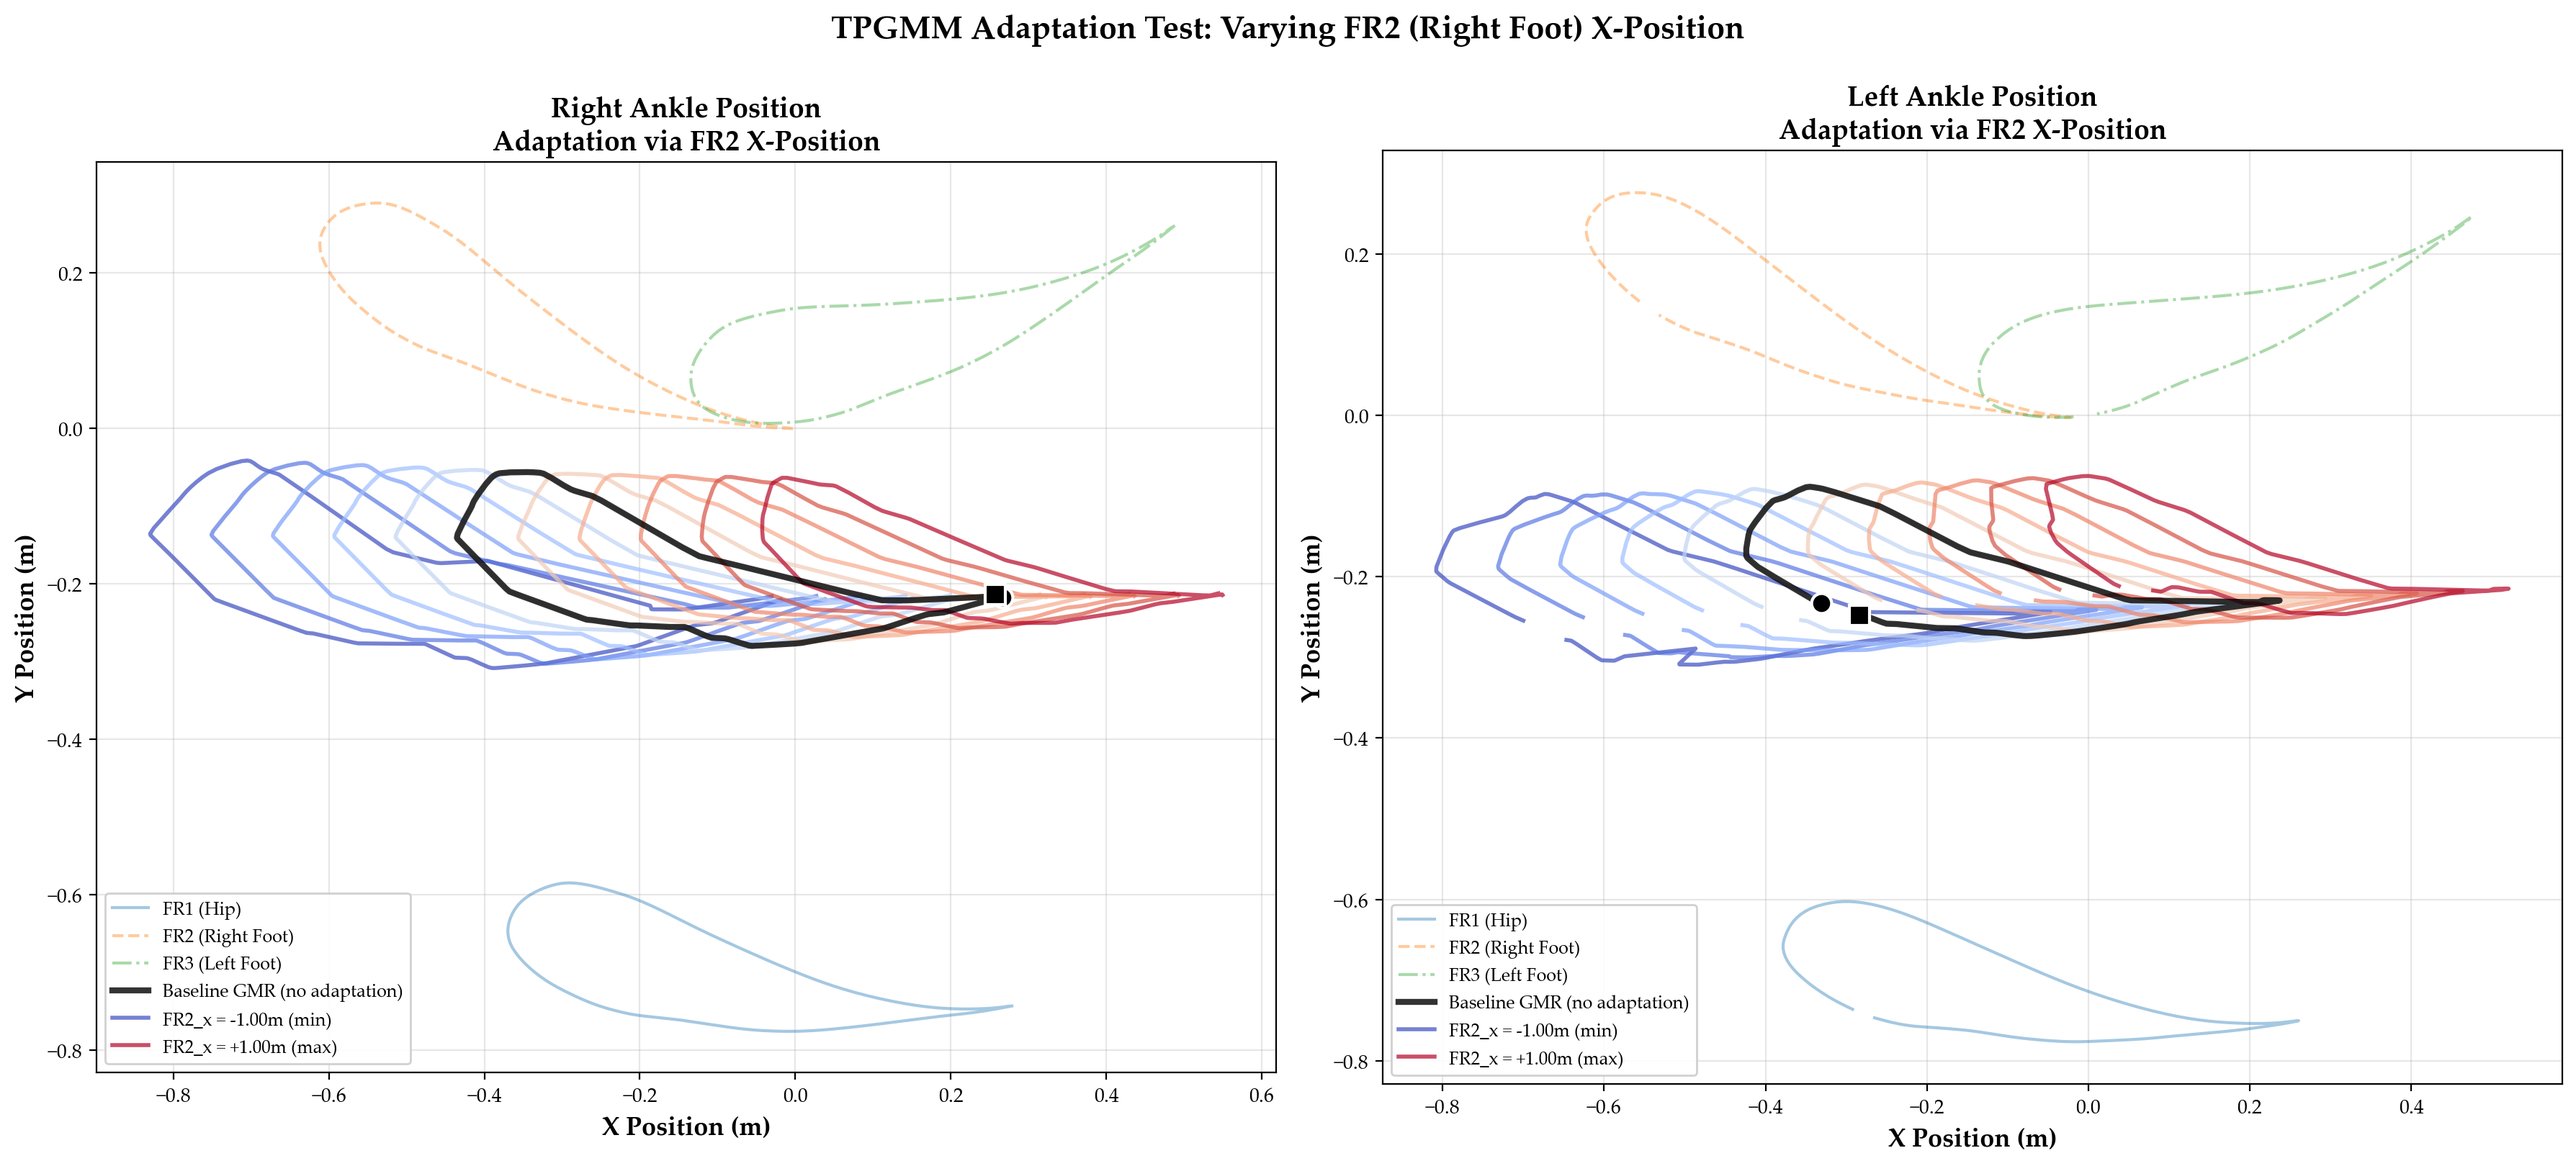
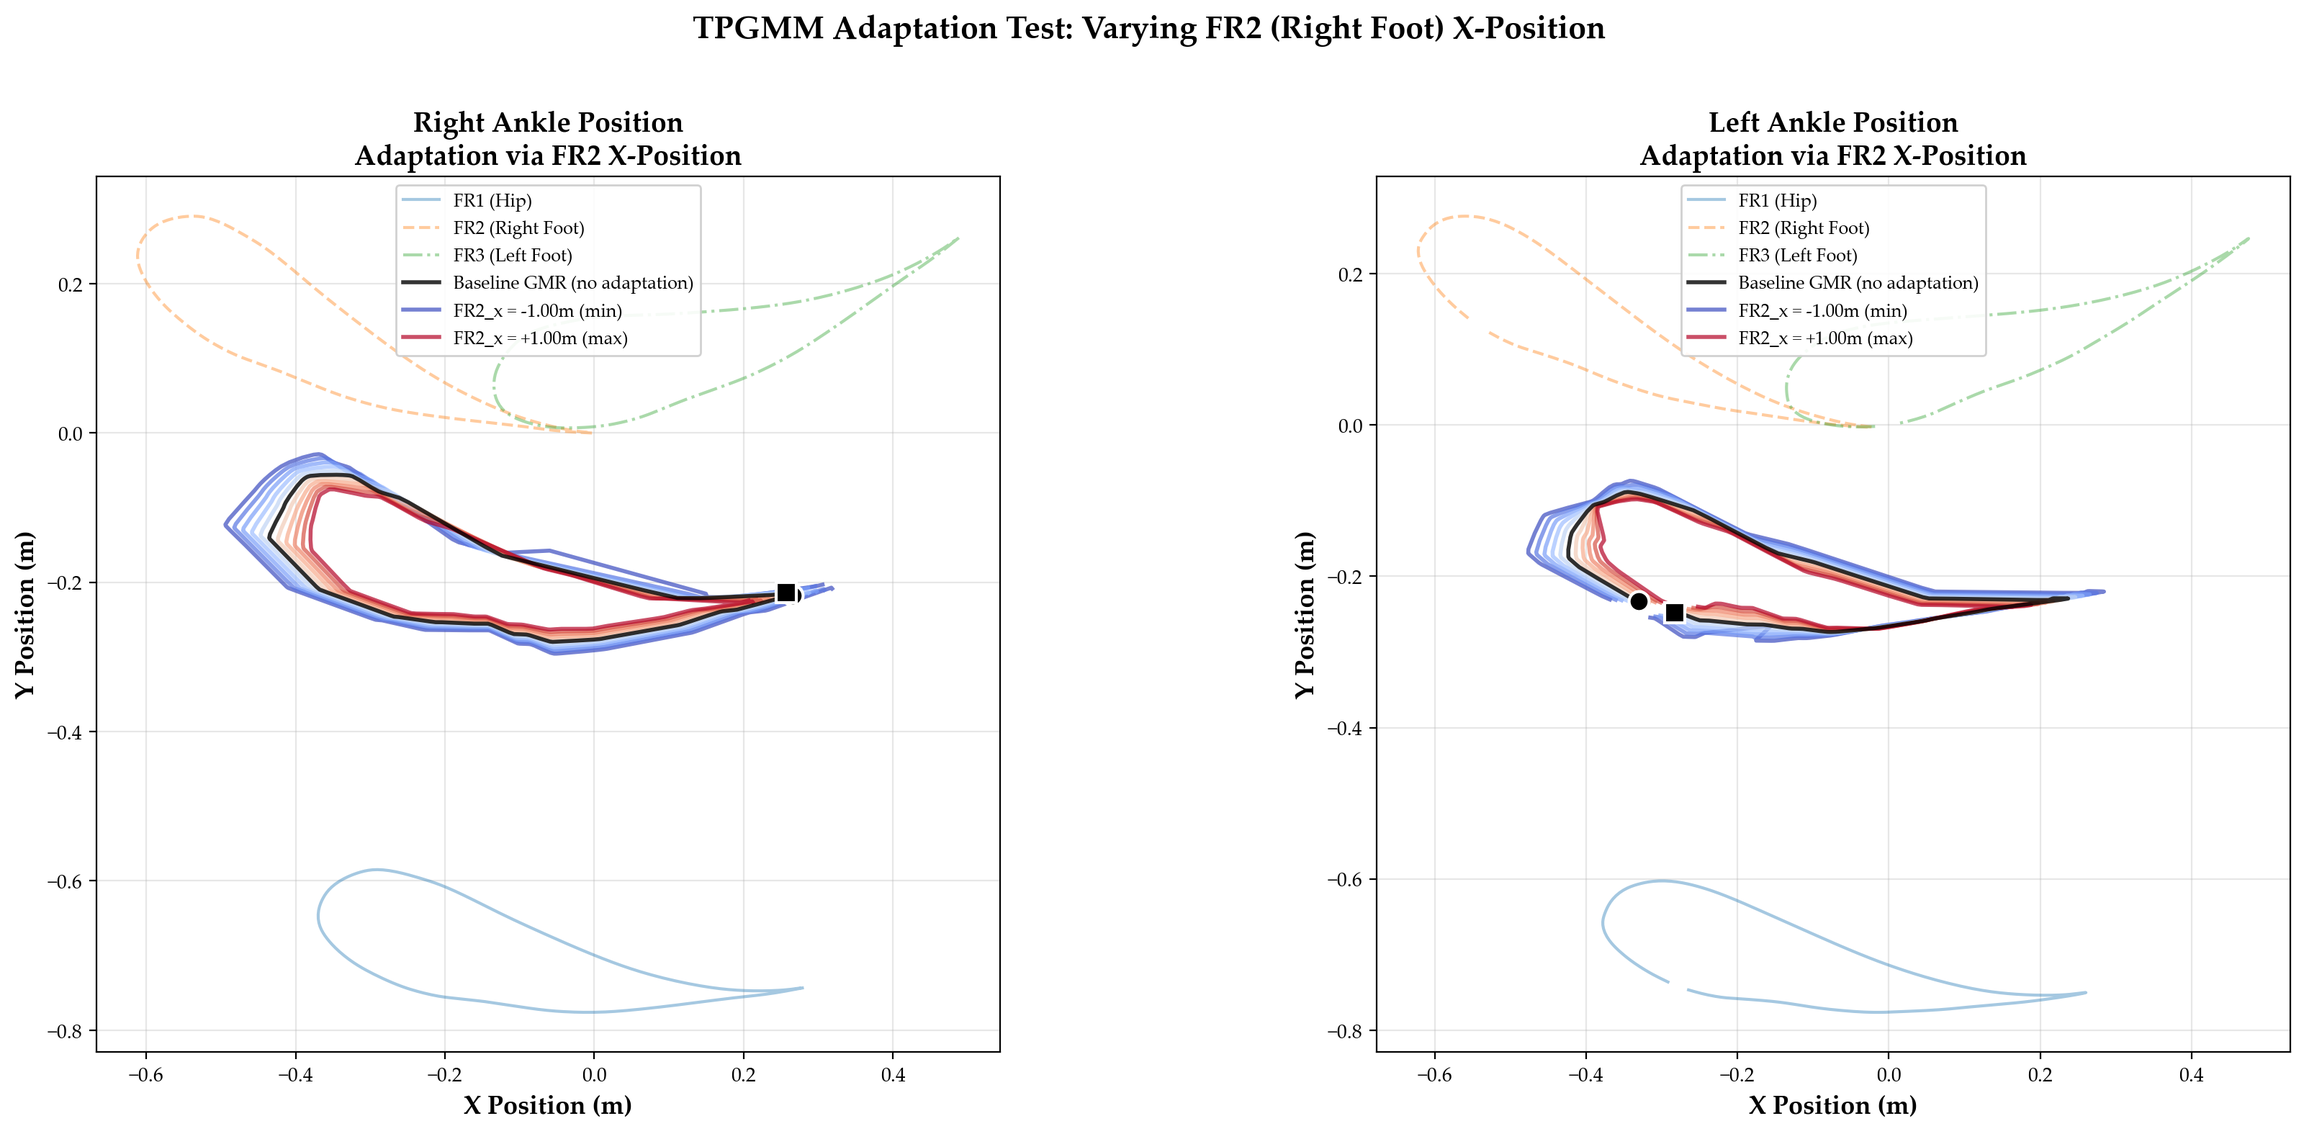
stamping

diff --git a/test_tpgmm_adaptation_fr2.py b/test_tpgmm_adaptation_fr2.py
@@ -445,7 +445,7 @@ def plot_adaptation_test_x(baseline_frame_trajs, baseline_gmr, adapted_trajector
     
     # 2. Plot baseline GMR trajectory (thick black line)
     axes[0].plot(baseline_gmr[:, 0], baseline_gmr[:, 1], 
-                'k-', linewidth=3.0, label='Baseline GMR (no adaptation)',
+                'k-', linewidth=2.0, label='Baseline GMR (no adaptation)',
                 zorder=5, alpha=0.8)
     
     # Mark start and end of baseline
@@ -466,7 +466,12 @@ def plot_adaptation_test_x(baseline_frame_trajs, baseline_gmr, adapted_trajector
         else:
             label = None
         
-        axes[0].plot(adapted_traj[:, 0], adapted_traj[:, 1],
+        # Calculate displacement from baseline's mean position and anti-transform
+        baseline_mean = np.mean(baseline_gmr[:, 0:2], axis=0)
+        adapted_mean = np.mean(adapted_traj[:, 0:2], axis=0)
+        displacement = adapted_mean - baseline_mean
+        
+        axes[0].plot(adapted_traj[:, 0] - displacement[0], adapted_traj[:, 1] - displacement[1],
                    color=color, linewidth=2.0, alpha=0.7,
                    label=label, zorder=4)
     
@@ -493,7 +498,7 @@ def plot_adaptation_test_x(baseline_frame_trajs, baseline_gmr, adapted_trajector
     
     # 2. Plot baseline GMR trajectory
     axes[1].plot(baseline_gmr[:, 5], baseline_gmr[:, 6], 
-                'k-', linewidth=3.0, label='Baseline GMR (no adaptation)',
+                'k-', linewidth=2.0, label='Baseline GMR (no adaptation)',
                 zorder=5, alpha=0.8)
     
     # Mark start and end
@@ -513,7 +518,12 @@ def plot_adaptation_test_x(baseline_frame_trajs, baseline_gmr, adapted_trajector
         else:
             label = None
         
-        axes[1].plot(adapted_traj[:, 5], adapted_traj[:, 6],
+        # Calculate displacement from baseline's mean position and anti-transform
+        baseline_mean = np.mean(baseline_gmr[:, 5:7], axis=0)
+        adapted_mean = np.mean(adapted_traj[:, 5:7], axis=0)
+        displacement = adapted_mean - baseline_mean
+        
+        axes[1].plot(adapted_traj[:, 5] - displacement[0], adapted_traj[:, 6] - displacement[1],
                    color=color, linewidth=2.0, alpha=0.7,
                    label=label, zorder=4)
     
@@ -608,7 +618,12 @@ def plot_adaptation_test_y(baseline_frame_trajs, baseline_gmr, adapted_trajector
         else:
             label = None
         
-        axes[0].plot(adapted_traj[:, 0], adapted_traj[:, 1],
+        # Calculate displacement from baseline's mean position and anti-transform
+        baseline_mean = np.mean(baseline_gmr[:, 0:2], axis=0)
+        adapted_mean = np.mean(adapted_traj[:, 0:2], axis=0)
+        displacement = adapted_mean - baseline_mean
+        
+        axes[0].plot(adapted_traj[:, 0] - displacement[0], adapted_traj[:, 1] - displacement[1],
                    color=color, linewidth=2.0, alpha=0.7,
                    label=label, zorder=4)
     
@@ -655,7 +670,12 @@ def plot_adaptation_test_y(baseline_frame_trajs, baseline_gmr, adapted_trajector
         else:
             label = None
         
-        axes[1].plot(adapted_traj[:, 5], adapted_traj[:, 6],
+        # Calculate displacement from baseline's mean position and anti-transform
+        baseline_mean = np.mean(baseline_gmr[:, 5:7], axis=0)
+        adapted_mean = np.mean(adapted_traj[:, 5:7], axis=0)
+        displacement = adapted_mean - baseline_mean
+        
+        axes[1].plot(adapted_traj[:, 5] - displacement[0], adapted_traj[:, 6] - displacement[1],
                    color=color, linewidth=2.0, alpha=0.7,
                    label=label, zorder=4)
     
